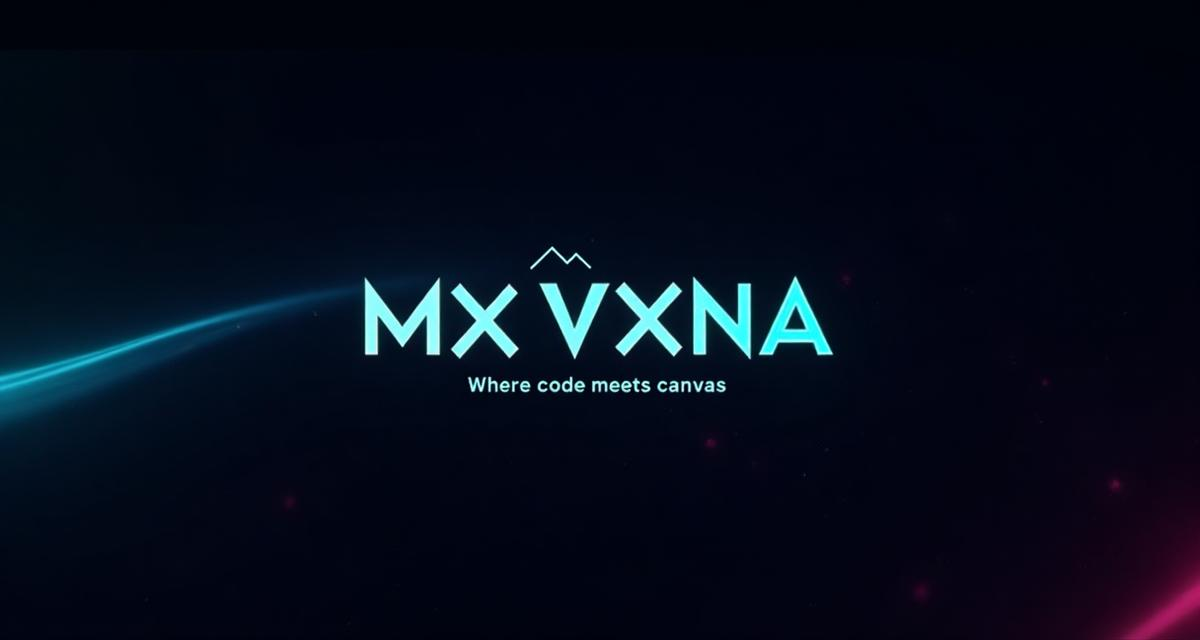
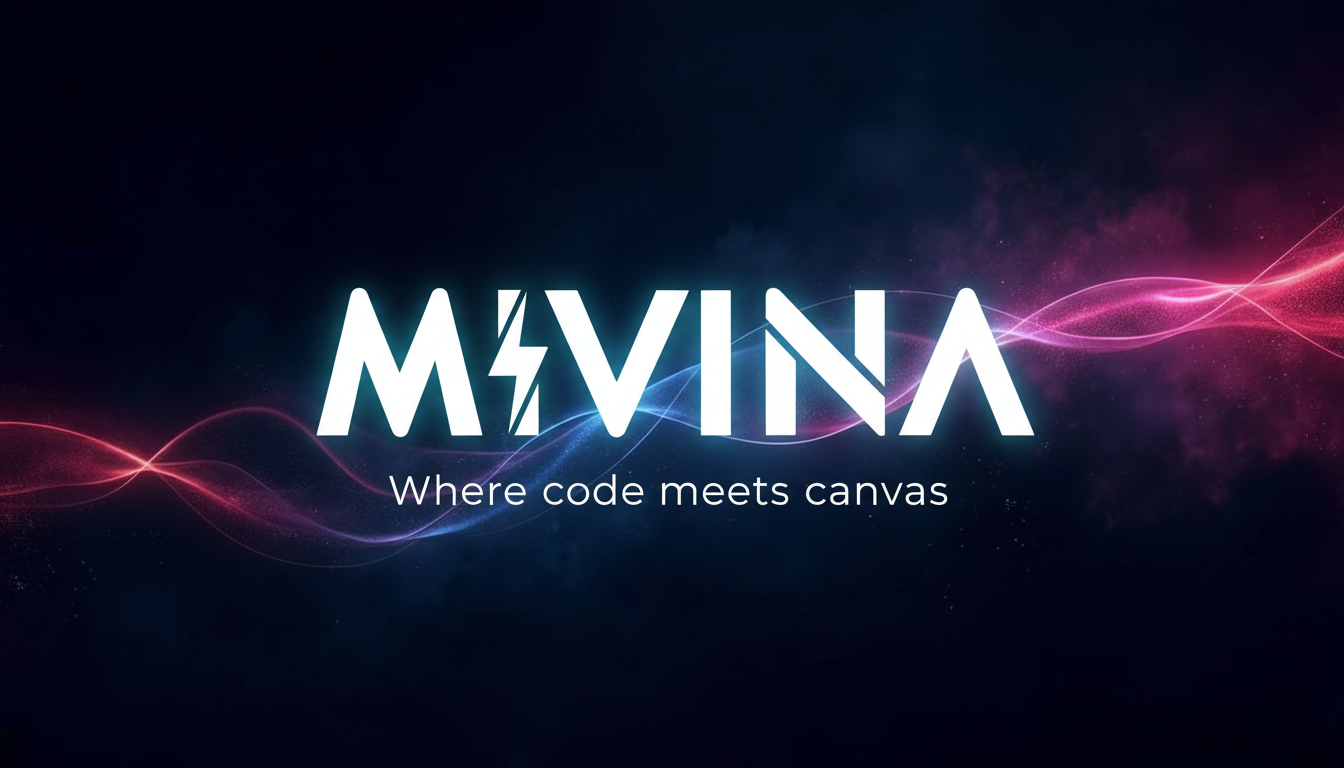
Changes

diff --git a/public/og-render.html b/public/og-render.html
@@ -1,0 +1,23 @@
+<!DOCTYPE html>
+<html>
+<head>
+<style>
+* { margin: 0; padding: 0; }
+body { width: 1200px; height: 630px; overflow: hidden; background: #08090d; display: flex; align-items: center; justify-content: center; flex-direction: column; position: relative; }
+.bg { position: absolute; inset: 0; width: 100%; height: 100%; object-fit: cover; }
+.content { position: relative; z-index: 1; display: flex; flex-direction: column; align-items: center; gap: 24px; }
+.logo { width: 520px; filter: drop-shadow(0 0 20px rgba(0, 212, 255, 0.5)) drop-shadow(0 0 40px rgba(0, 212, 255, 0.25)); }
+.logo path { fill: white; }
+.tagline { color: rgba(255,255,255,0.65); font-family: Inter, Arial, sans-serif; font-size: 20px; letter-spacing: 4px; font-weight: 300; }
+</style>
+</head>
+<body>
+<img class="bg" src="og-background-temp.png" />
+<div class="content">
+<svg class="logo" viewBox="0 0 1057 218" fill="none" xmlns="http://www.w3.org/2000/svg">
+<path d="M0.00351772 -0.00157881L104.704 111.598L209.404 -0.00157881V215.398H174.304V83.3984L104.704 158.698L34.8035 83.3984V215.398H0.00351772V-0.00157881ZM279.011 167.698L250.211 108.898L279.011 50.0984L250.211 2.39843H288.011L316.811 50.0984L288.011 108.898L316.511 167.698L287.711 215.398H250.211L279.011 167.698ZM325.731 2.39843H364.431L424.731 137.998L485.031 2.39843H523.731L424.731 217.798L325.731 2.39843ZM566.12 167.698L537.32 108.898L566.12 50.0984L537.32 2.39843H575.12L603.92 50.0984L575.12 108.898L603.62 167.698L574.82 215.398H537.32L566.12 167.698ZM679.042 78.5984V215.398H644.242V-0.00157881L789.742 139.198V2.39843H824.542V217.798L679.042 78.5984ZM952.145 -0.00157881L1056.54 215.398H1019.34L996.845 167.998H907.445L885.245 215.398H848.045L952.145 -0.00157881ZM982.445 137.698L952.145 73.4984L921.845 137.698H982.445Z" fill="white"/>
+</svg>
+<div class="tagline">Where code meets canvas</div>
+</div>
+</body>
+</html>
